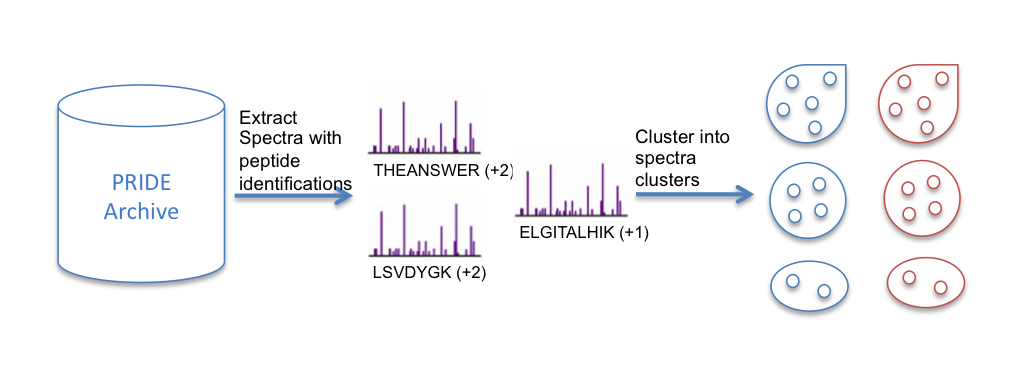
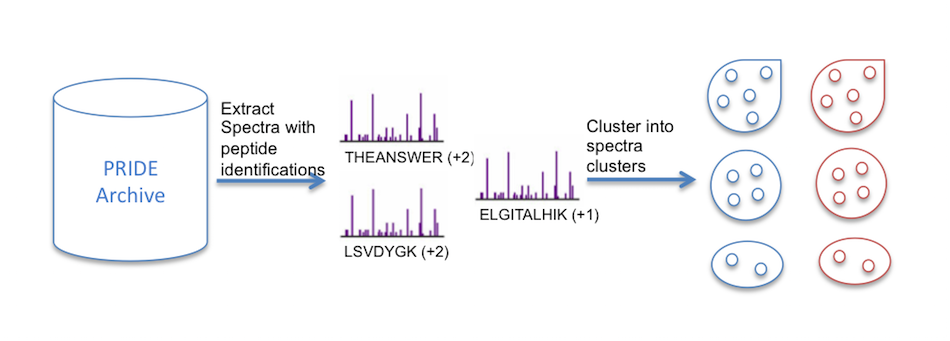
fixed the problem with trimmed tutorial picture

diff --git a/src/main/webapp/components/directives/cluster-tutorial-directive/cluster-tutorial-directive.css b/src/main/webapp/components/directives/cluster-tutorial-directive/cluster-tutorial-directive.css
@@ -22,11 +22,11 @@ p {
 }
 
 .tutorial-slides {
-    height: 300px;
+    height: 350px;
     border: 2px solid #f1f1f1;
     border-radius: 4px;
     padding: 5px 5px 5px 5px;
-    margin-top: 20px;
+    margin-top: 10px;
     margin-bottom: 50px;
     margin-left: auto;
     margin-right: auto;
